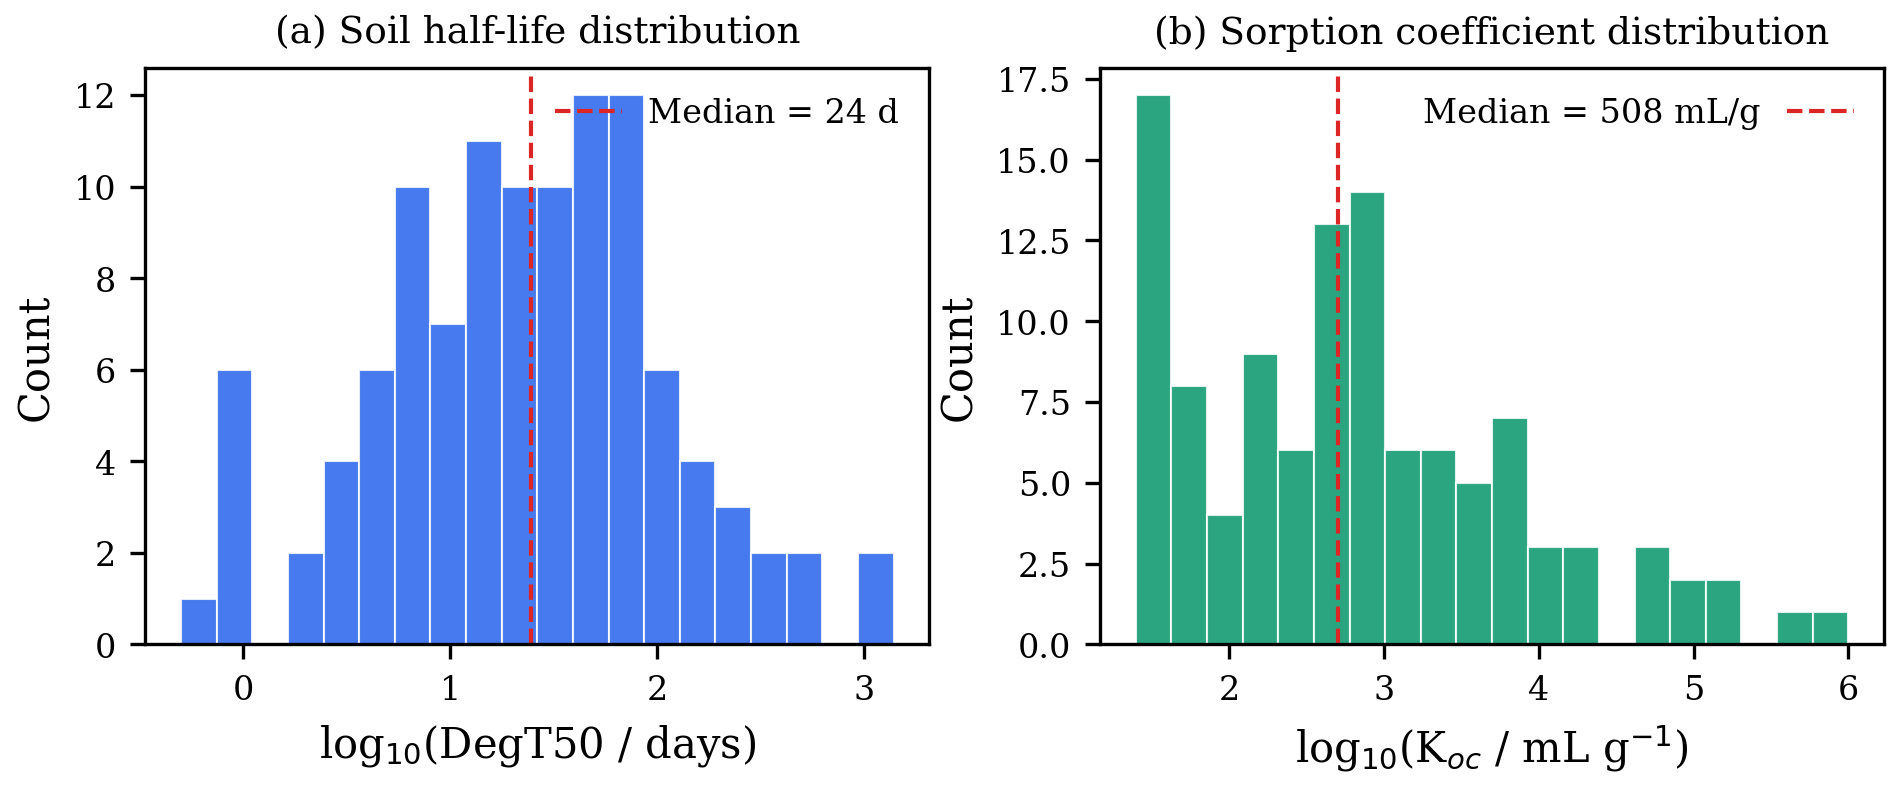
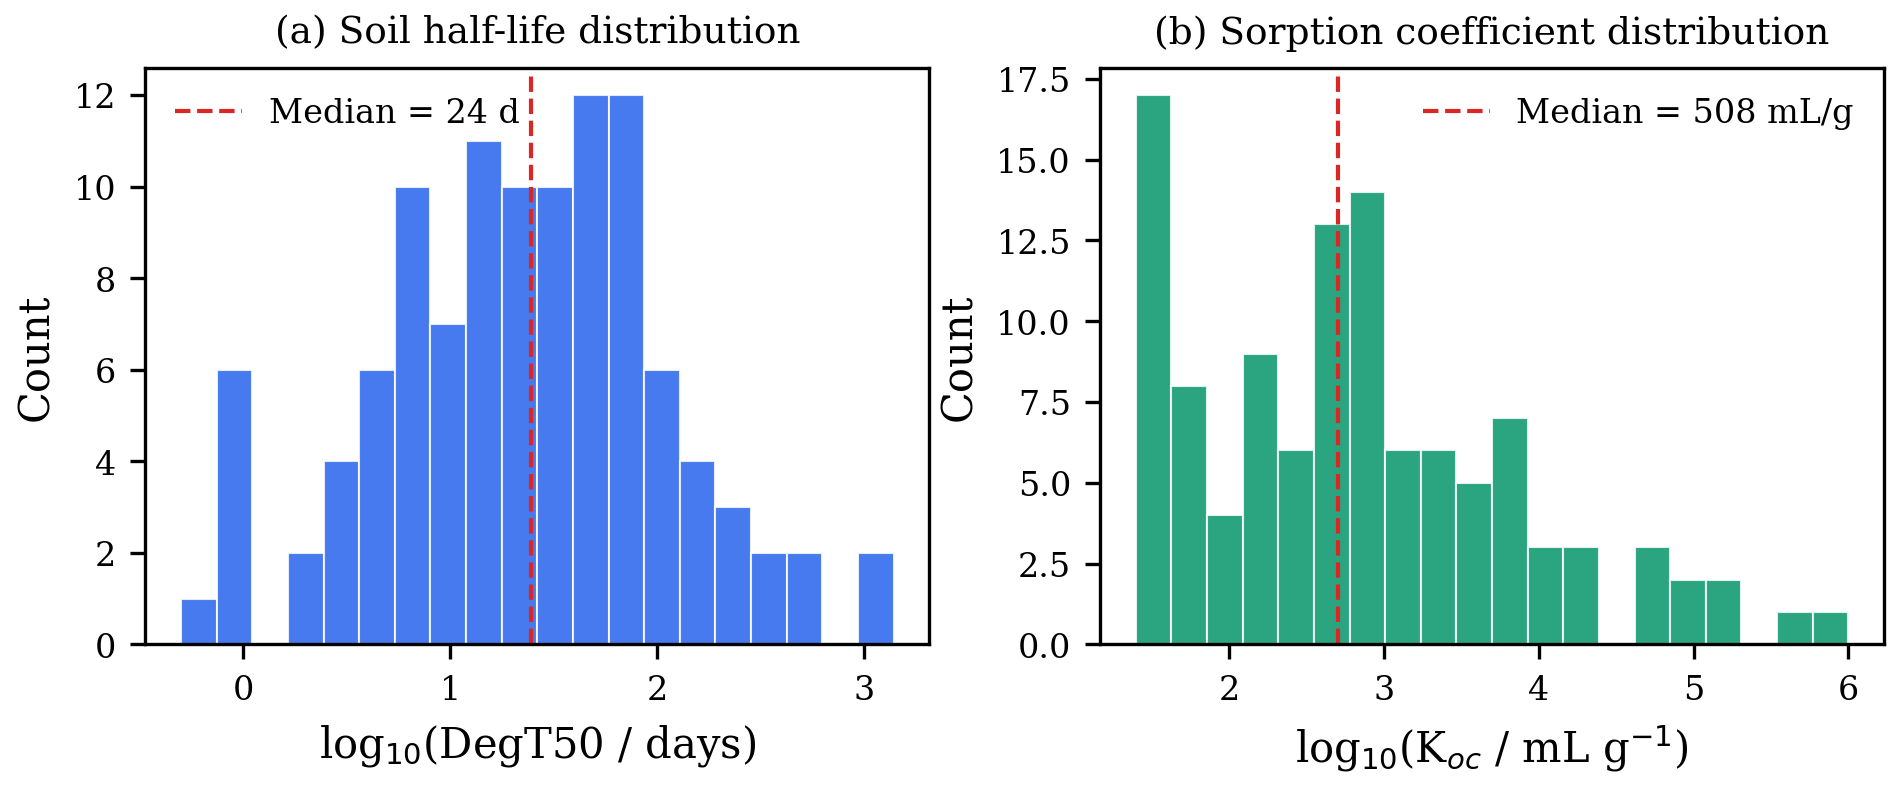
Fig 1(a) only: move legend to upper left, panel (b) unchanged

Changed region(s): [[0.7457, 0.1218, 0.9942, 0.1827], [0.0932, 0.1218, 0.2796, 0.1523], [0.3418, 0.1218, 0.466, 0.1523]]

diff --git a/manuscript/generate_figures.py b/manuscript/generate_figures.py
@@ -51,7 +51,7 @@ def fig1_dataset_overview():
     ax.set_ylabel("Count")
     ax.set_title("(a) Soil half-life distribution", fontsize=9)
     ax.axvline(np.median(log_deg), color="#dc2626", ls="--", lw=1, label=f"Median = {np.median(degT50):.0f} d")
-    ax.legend(frameon=False)
+    ax.legend(frameon=False, loc='upper left')
 
     # Koc histogram (log scale)
     ax = axes[1]
@@ -61,7 +61,7 @@ def fig1_dataset_overview():
     ax.set_ylabel("Count")
     ax.set_title("(b) Sorption coefficient distribution", fontsize=9)
     ax.axvline(np.median(log_koc), color="#dc2626", ls="--", lw=1, label=f"Median = {np.median(koc):.0f} mL/g")
-    ax.legend(frameon=False, markerfirst=False)
+    ax.legend(frameon=False)
 
     plt.tight_layout()
     plt.savefig(os.path.join(FIGDIR, "fig1_dataset_overview.pdf"))
